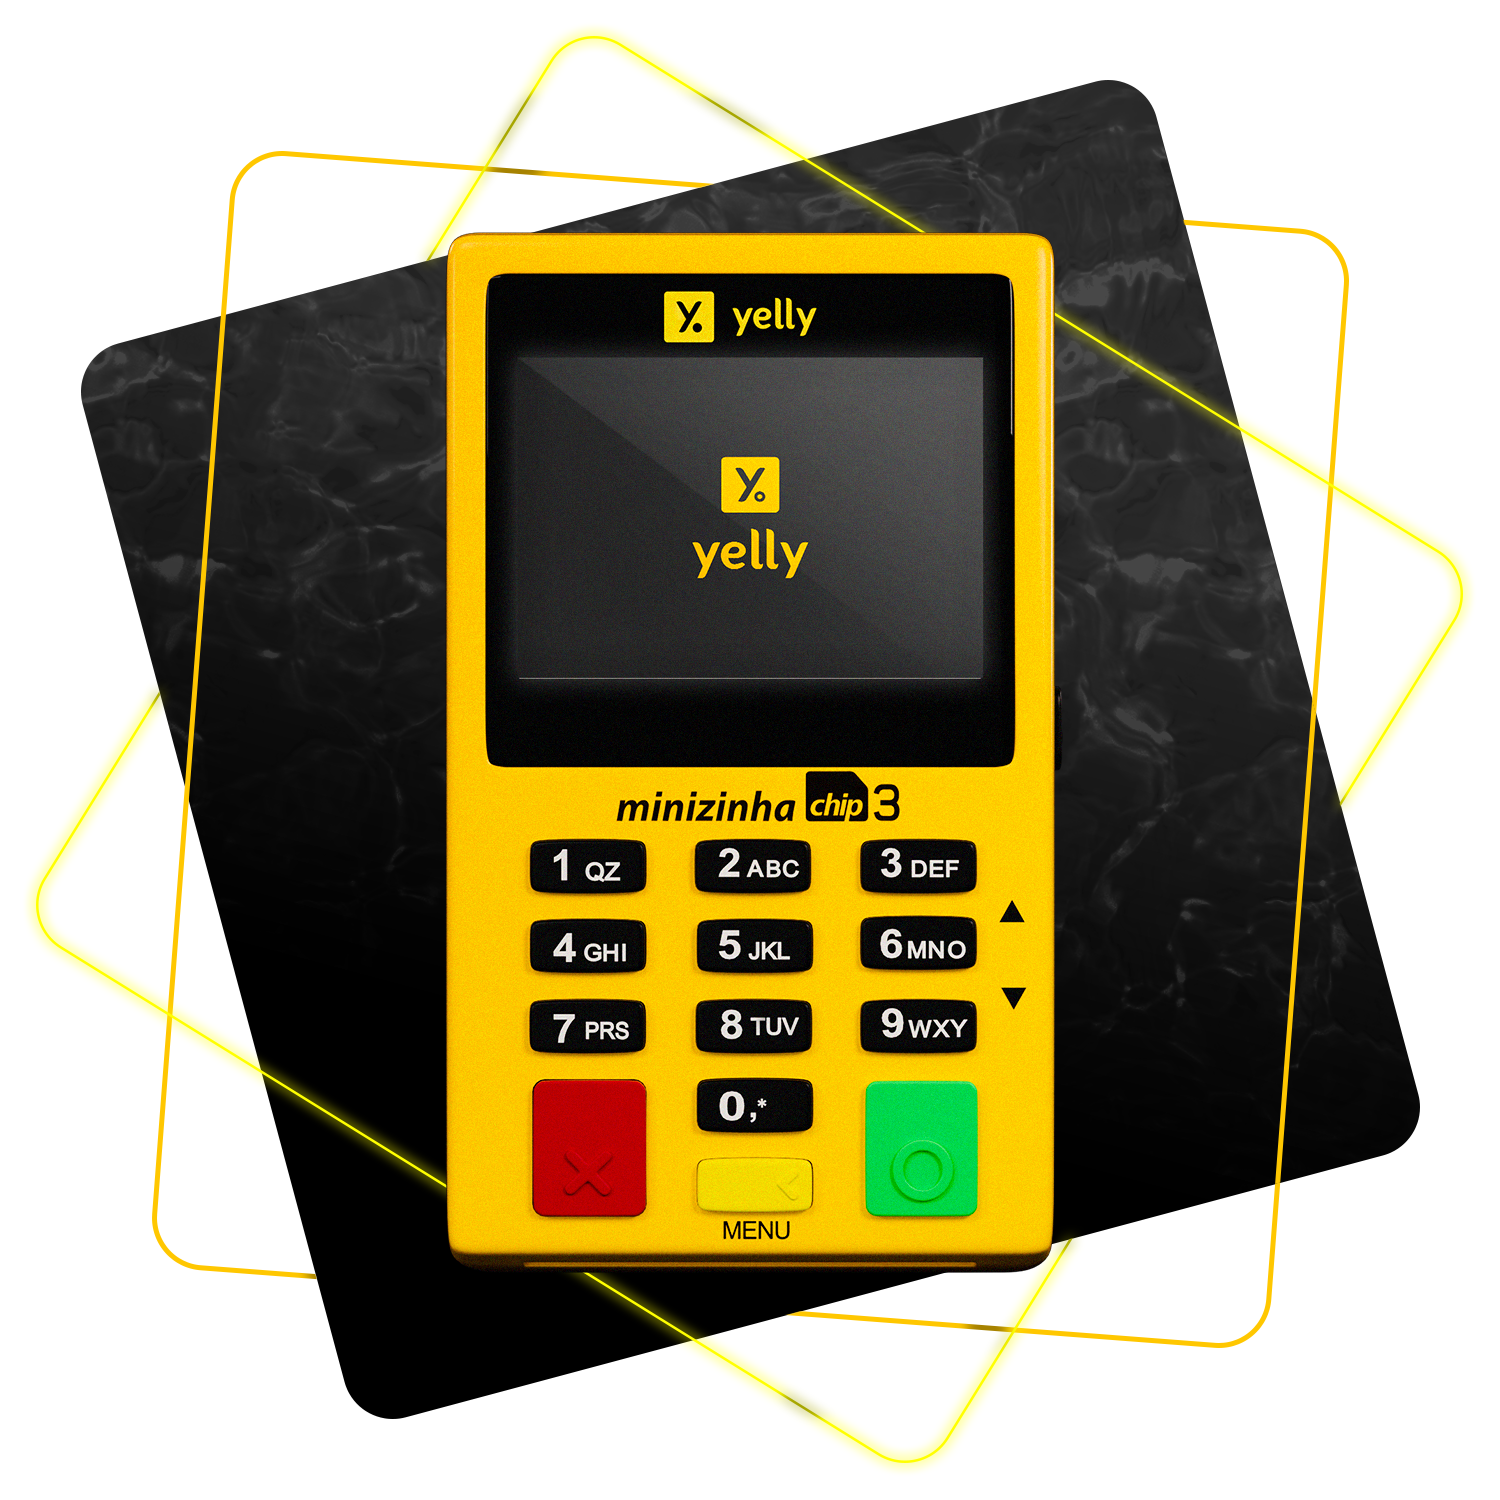
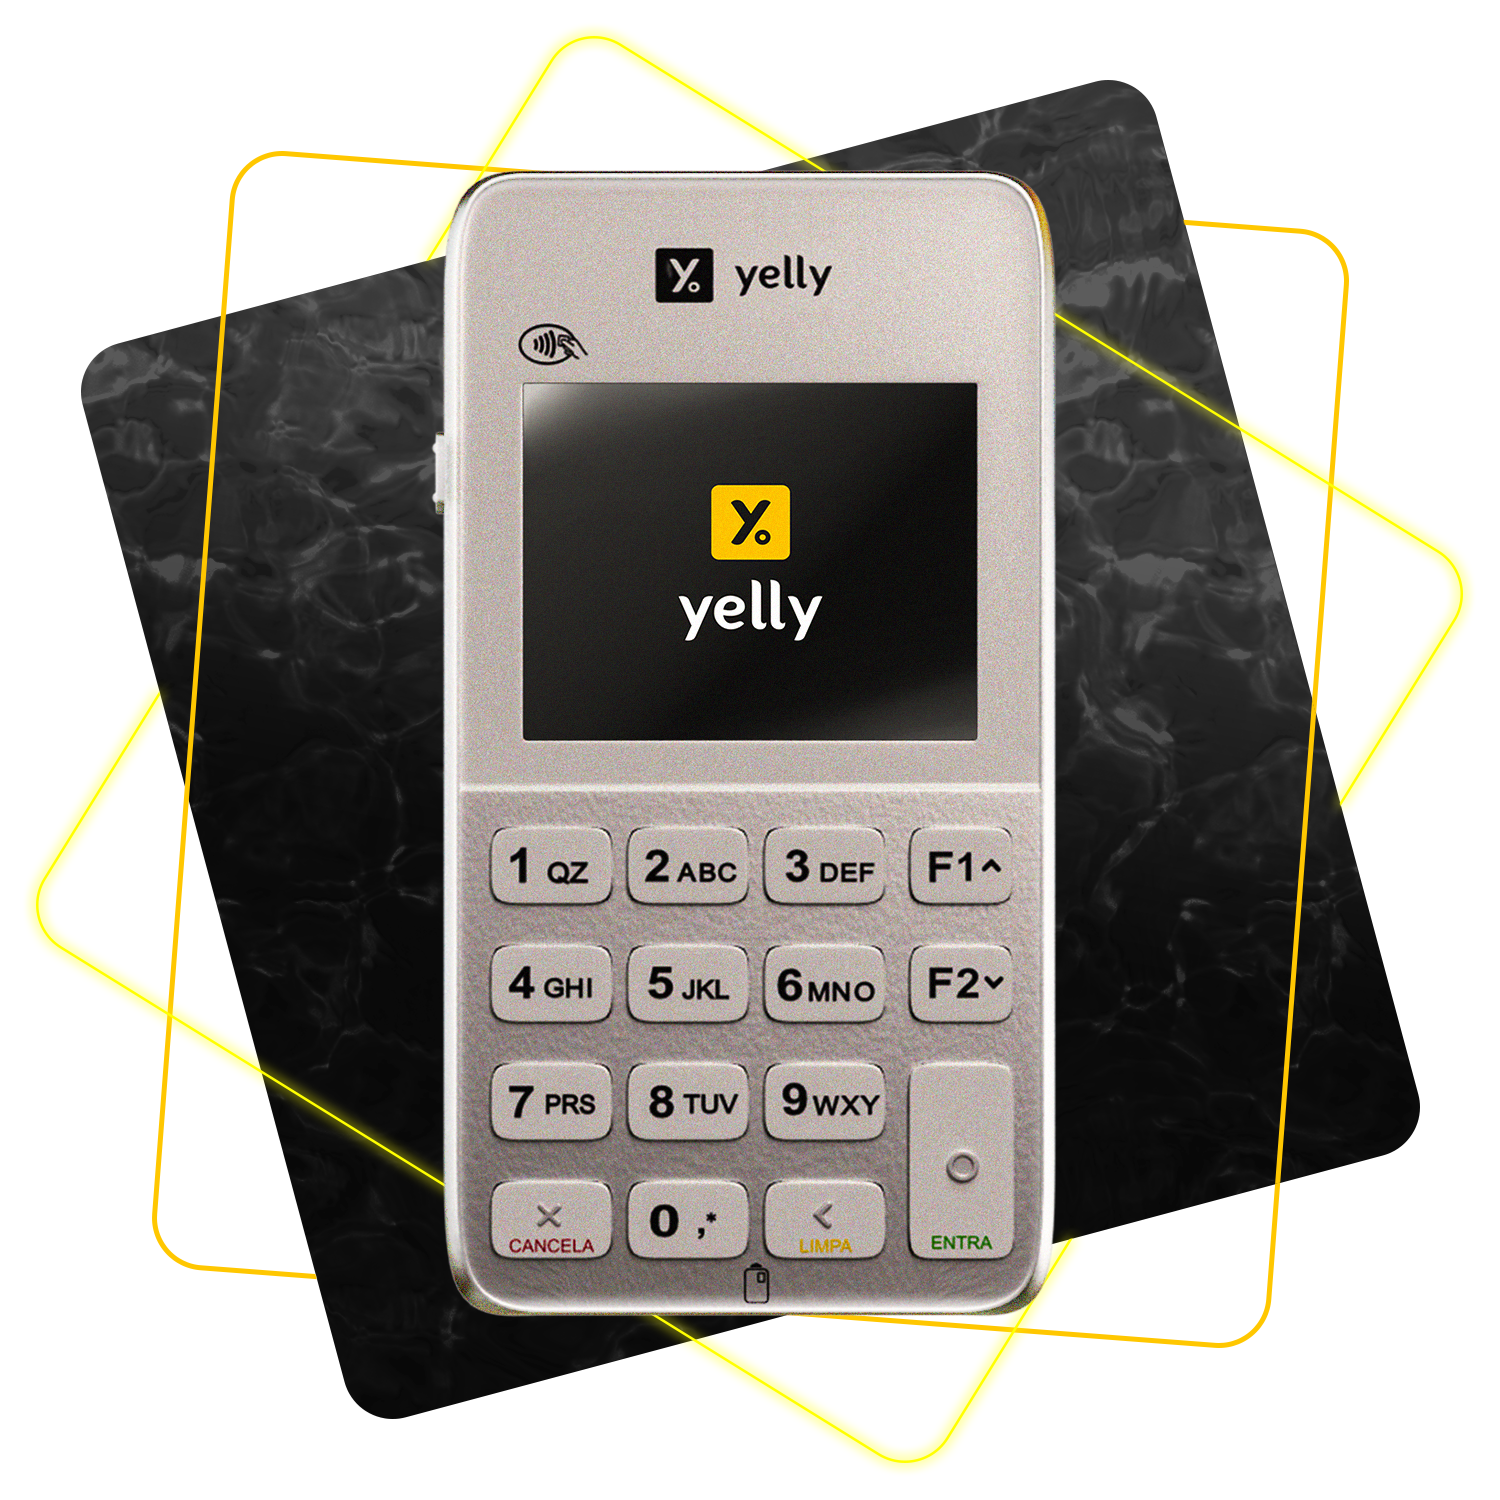
Maquininha

Changed region(s): [[0.2147, 0.092, 0.7667, 0.8893], [0.0613, 0.2147, 0.1227, 0.276], [0.7667, 0.2453, 0.7973, 0.276]]

diff --git a/src/components/Maquininhas/index.tsx b/src/components/Maquininhas/index.tsx
@@ -5,30 +5,142 @@ export function Maquininha(){
         <section id='Maquininhas' className={styles.maquininhas}>
             <div className={styles.maquininhasContainer}>
                 <img src="/Maquininhas/SMART.png" alt="Maquininha Smart" />
-                <div className="divText">
+                <div className={styles.divText}>
                     <h3>A máquina de fazer dinheiro</h3>
                     <p>Boa pedida para frente de caixa, a Yelly Smart recebe pagamentos no crédito, débito e por QR Code com rapidez e agilidade. Ela possui design moderno, conexão Wi-Fi, Chip 4G e Bluetooth, tela sensível ao toque e câmera integrada.</p>
-                    <div className="divImg">
-                        <div className="imgConteudo">
+                    <div className={styles.divImg}>
+                        <div className={styles.imgConteudo}>
                             <img src="/impressaoSms.svg" alt="Impressão Sms" />
-                            <p>Comprovante impresso e SMS</p>
+                            <p>Comprovante <br /> impresso e SMS</p>
                         </div>
-                        <div className="imgConteudo">
+                        <div className={styles.imgConteudo}>
                            <img src="/wifi.svg" alt="4g" />
 
-                            <p>Comprovante impresso e SMS</p>
+                            <p>Wifi <br />+ Chip 4G Grátis</p>
                         </div>
-                        <div className="imgConteudo">
+                        <div className={styles.imgConteudo}>
                             <img src="/nfc.svg" alt="nfc" />
-                            <p>Comprovante impresso e SMS</p>
+                            <p>Receba por <br /> aproximação (NFC)</p>
                         </div>
-                        <div className="imgConteudo">
+                        <div className={styles.imgConteudo}>
                             <img src="/android.svg" alt="android" />
-                            <p>Comprovante impresso e SMS</p>
+                            <p>Sistema Android <br />+ Tela Touch</p>
                         </div>
         
                     </div>
                     <a href="">Peça sua Yelly SMART!</a>
+                </div>
+            </div>
+            <div className={styles.maquininhasContainer}>
+                <img src="/Maquininhas/Pro.png" alt="Maquininha Pro" />
+                <div className={styles.divText}>
+                    <h3>Máquina de cartão completa</h3>
+                    <p>Aumente suas vendas com rapidez e economia! Este modelo de maquininha combina o melhor custo-benefício do mercado, uma bateria de longa duração e as taxas exclusivas da Yelly para maximizar seus lucros.</p>
+                    <div className={styles.divImg}>
+                        <div className={styles.imgConteudo}>
+                            <img src="/impressaoSms.svg" alt="Impressão Sms" />
+                            <p>Comprovante <br /> impresso e SMS</p>
+                        </div>
+                        <div className={styles.imgConteudo}>
+                           <img src="/wifi.svg" alt="4g" />
+
+                            <p>Wifi <br />+ Chip 4G Grátis</p>
+                        </div>
+                        <div className={styles.imgConteudo}>
+                            <img src="/nfc.svg" alt="nfc" />
+                            <p>Receba por <br /> aproximação (NFC)</p>
+                        </div>
+                        <div className={styles.imgConteudo}>
+                            <img src="/bateria.svg" alt="bateria" />
+                            <p>Bateria de <br />longa duração</p>
+                        </div>
+        
+                    </div>
+                    <a href="">Peça sua Yelly PRO!</a>
+                </div>
+            </div>
+            <div className={styles.maquininhasContainer}>
+                <img src="/Maquininhas/PLUS.png" alt="Maquininha Plus" />
+                <div className={styles.divText}>
+                    <h3>Máquina de cartão 100% Yelly</h3>
+                    <p>O nosso mais novo lançamento no mercado, confira nossa maquininha de subadquirente. Acompanhe suas vendas e receba seu saldo no app Yelly.</p>
+                    <div className={styles.divImg}>
+                        <div className={styles.imgConteudo}>
+                            <img src="/impressaoSms.svg" alt="Impressão Sms" />
+                            <p>Comprovante <br /> impresso e SMS</p>
+                        </div>
+                        <div className={styles.imgConteudo}>
+                           <img src="/wifi.svg" alt="4g" />
+
+                            <p>Wifi <br />+ Chip 4G Grátis</p>
+                        </div>
+                        <div className={styles.imgConteudo}>
+                            <img src="/nfc.svg" alt="nfc" />
+                            <p>Receba por <br /> aproximação (NFC)</p>
+                        </div>
+                        <div className={styles.imgConteudo}>
+                            <img src="/bateria.svg" alt="bateria" />
+                            <p>Bateria de <br />longa duração</p>
+                        </div>
+        
+                    </div>
+                    <a href="">Peça sua Yelly PRO PLUS!</a>
+                </div>
+            </div>
+            <div className={styles.maquininhasContainer}>
+                <img src="/Maquininhas/MINI.png" alt="Maquininha Mini" />
+                <div className={styles.divText}>
+                    <h3>De MINI só o tamanho, o lucro é PLUS!</h3>
+                    <p>Chegou a solução que seu negócio precisava. A MINI PLUS além da sua tecnologia, possui uma incrível AGILIDADE devido ao seu sistema 3G e wi-fi grátis. Ideal para profissionais autonomos que deseja LUCRAR MUITO MAIS.</p>
+                    <div className={styles.divImg}>
+                        <div className={styles.imgConteudo}>
+                            <img src="/comprovanteSms.svg" alt="Comprovante Sms" />
+                            <p>Comprovante <br /> por SMS</p>
+                        </div>
+                        <div className={styles.imgConteudo}>
+                           <img src="/wifi.svg" alt="4g" />
+
+                            <p style={{color: "var(--amarelo-yelly)"}}>Wifi <br />+ Chip 3G Grátis</p>
+                        </div>
+                        <div className={styles.imgConteudo}>
+                            <img src="/nfc.svg" alt="nfc" />
+                            <p>Receba por <br /> aproximação (NFC)</p>
+                        </div>
+                        <div className={styles.imgConteudo}>
+                            <img src="/maisPratica.svg" alt="Maispratica" />
+                            <p>A mais prática <br />portátil</p>
+                        </div>
+        
+                    </div>
+                    <a href="">Peça sua Yelly MINI!</a>
+                </div>
+            </div>
+            <div className={styles.maquininhasContainer}>
+                <img src="/Maquininhas/MINIZINHA.png" alt="Maquininha Minizinha" />
+                <div className={styles.divText}>
+                    <h3>Uma minizinha de respeito!</h3>
+                    <p>Praticidade e economia em suas mãos! A Mini é compacta, acessível e portátil, com tela maior e colorida para facilitar suas vendas diárias. Dispensa celular, possui conexão Wi-Fi e chip com plano de dados grátis para vender onde quiser!</p>
+                    <div className={styles.divImg}>
+                        <div className={styles.imgConteudo}>
+                            <img src="/comprovanteSms.svg" alt="Comprovante Sms" />
+                            <p>Comprovante <br /> por SMS</p>
+                        </div>
+                        <div className={styles.imgConteudo}>
+                           <img src="/wifi.svg" alt="4g" />
+
+                            <p>Wifi <br />+ Chip 2G Grátis</p>
+                        </div>
+                        <div className={styles.imgConteudo}>
+                            <img src="/nfc.svg" alt="nfc" />
+                            <p>Receba por <br /> aproximação (NFC)</p>
+                        </div>
+                        <div className={styles.imgConteudo}>
+                            <img src="/maisPratica.svg" alt="Maispratica" />
+                            <p>A mais prática <br />portátil</p>
+                        </div>
+        
+                    </div>
+                    <a href="">Peça sua Yelly MINIZINHA!</a>
                 </div>
             </div>
 

diff --git a/src/components/Maquininhas/maquininhas.module.css b/src/components/Maquininhas/maquininhas.module.css
@@ -6,10 +6,138 @@
     gap: 64px;
 }
 
+
+
 .maquininhasContainer{
     max-width: 1440px;
     width: 100%;
     margin: auto;
     padding: 0 70px;
+    display: flex;
+    flex-direction: row;
+    gap: 60px;
+
+    & > img{
+        max-width: 420px;
+        object-fit: contain;
+    }
+
+
+    .divText{
+        display: flex;
+        flex-direction: column;
+        justify-content: center;
+        gap: 32px;
+       
+        h3{
+            color: var(--amarelo-claro);
+            margin-bottom: -16px;
+            font-weight: 700;
+            font-size: 28px;
+            line-height: 32px;
+            letter-spacing: -0.5px;
+        }
+        p{
+            color: var(--branco);  
+            font-size: 14px;
+            line-height: 16px;
+            letter-spacing: -0.2px; 
+        }
+        a{
+            color: var(--color-preto);
+            background-color:  var(--amarelo-claro);
+            align-self: flex-start;
+            padding: 8px 24px;
+            border-radius: 100px;
+            font-size: 16px;
+            line-height: 16px;
+            font-weight: 500;
+        }
+        a:hover{
+            background-color:  var(--hover-amarelo-yelly);
+        }
+
+        .divImg{
+            display: flex;
+            flex-direction: row;
+
+            .imgConteudo{
+                max-width: 205px;
+                width: 100%;
+                text-align: center;
+            }
+        }
+        
+    }
     
+}
+
+.maquininhasContainer:nth-child(odd){
+    flex-direction: row;
+}
+.maquininhasContainer:nth-child(even){
+    flex-direction: row-reverse;
+}
+
+@media (max-width: 1080px) {
+    .maquininhasContainer{
+        .divText{
+            .divImg{
+                display: grid;
+                grid-template-columns: 1fr 1fr;
+                gap: 32px;
+            }
+        }
+    }
+}
+
+@media (max-width: 850px) {
+    .maquininhasContainer{
+        padding: 0 32px;
+        flex-direction: column !important;
+        align-items: center;
+
+        .divText{
+            
+            .divImg{
+                display: flex;
+               
+            }
+        }
+    }
+}
+
+@media (max-width: 680px) {
+    .maquininhas{
+        padding: 32px 0;
+    }
+    .maquininhasContainer{
+        padding: 0 16px;
+        flex-direction: column !important;
+        align-items: center;
+
+        & > img{
+            max-width: 260px;
+            object-fit: contain;
+        }
+
+        .divText{
+            text-align: center;
+
+            p{
+                font-size: 12px;
+                line-height: 16px;
+            }
+            .divImg{
+                display: grid;
+                grid-template-columns: 1fr 1fr;
+                gap: 32px;
+               
+            }
+
+            a{
+                align-self: center;
+            }
+        }
+    }
 }

diff --git a/src/components/Header/index.tsx b/src/components/Header/index.tsx
@@ -108,7 +108,9 @@ export function Header (){
                 
                 <div className={`${styles.mobile} ${menuAberto ? styles.menuAberto : ""}`}>
                     <div className={styles.menuBurguer} onClick={ ()=> setMenuAberto(!menuAberto) }>
-                        <Image src="/menu_burguer.svg" alt="Menu Burguer" width={40} height={32}  />
+                        <Image  src={menuAberto ? "/menu_close.svg" : "/menu_burguer.svg"} 
+                                alt="Menu Burguer" 
+                                width={40} height={32}  />
                     </div>
                     <div className={styles.logo}>
                         <Link href="/">
@@ -131,7 +133,7 @@ export function Header (){
                                     <div >
                                         <Link href="/maquininhas" className={styles.alignCenter}>
                                            <Image src="/maquininhas.svg" alt="Maquininhas" width={24} height={24} /> 
-                                            Maquininhas`
+                                            Maquininhas
                                         </Link>
                                         
                                     </div>
